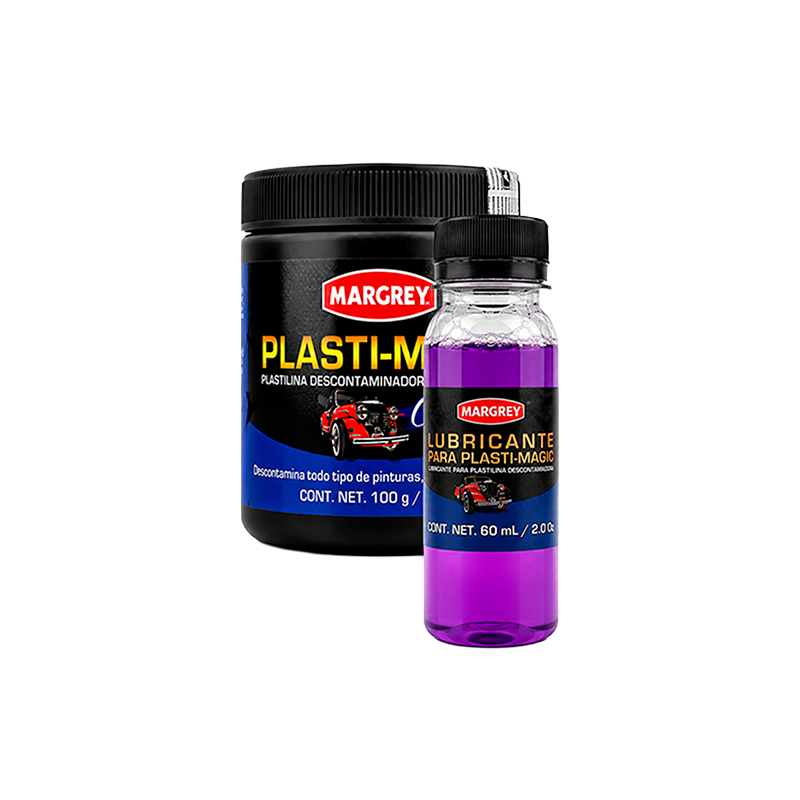
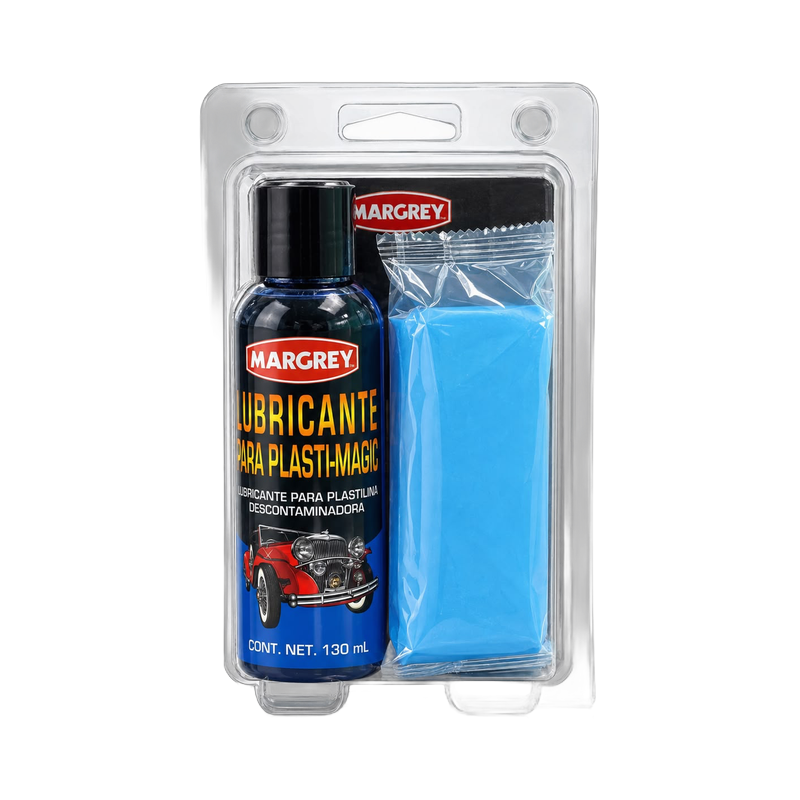
Foto nueva del Plasti-Magic 100 g (#31)
* Foto nueva del Plasti-Magic 100 g (blíster con lubricante 130 ml), PNG del kit

Claude-Session: https://claude.ai/code/session_01MW4YBNVCdbsHfkz1U2M1qe

* Cotizador usa la foto nueva del Plasti-Magic 100 g

Claude-Session: https://claude.ai/code/session_01MW4YBNVCdbsHfkz1U2M1qe

---------

diff --git a/src/PedidoTabla.jsx b/src/PedidoTabla.jsx
@@ -73,7 +73,7 @@ const productCatalog = [
   { product: "PULIMENTO RESTAURADOR DE FAROS", code: "7501716105582", sku: "0422-01-253", description: "PAQUETE 6 PIEZAS 130 ML", unitDescription: "PIEZA INDIVIDUAL 130 ML", price: 372.00, unitPrice: 31.00, link: "https://www.comercializadoradtup.com/products/restaurador-de-faros-margrey-130-ml?_pos=2&_psq=faros&_ss=e&_v=1.0", image:"https://res.cloudinary.com/diefezach/image/upload/v1726873372/restaurador_faros_130_jfydce.jpg"},
   { product: "PULIMENTO RESTAURADOR DE FAROS", code: "7501716104813", sku: "0422-01-235", description: "PAQUETE 12 PIEZAS 250 ML", unitDescription: "PIEZA INDIVIDUAL 250 ML", price: 630.00, unitPrice: 52.50, image:"https://res.cloudinary.com/diefezach/image/upload/v1726873373/restaurador_faros_250_bghu6v.jpg", link:"https://www.comercializadoradtup.com/products/restaurador-de-faros-margrey-250-ml?_pos=1&_psq=faros&_ss=e&_v=1.0"},
   { product: "PLASTI-MAGIC", category: "PLASTI-MAGIC", name: "plasti-magic" },
-  { product: "PLASTI-MAGIC", code: "7501716108378", sku: "0423-01-247", description: "CAJA 12 PIEZAS 100 GR", unitDescription: "PIEZA INDIVIDUAL 100 GR", price: 696.00, unitPrice: 58.00, link:"https://www.comercializadoradtup.com/products/plasti-magic-margrey-100g-lubricante-60ml?_pos=1&_psq=plasti&_ss=e&_v=1.0", image:"https://res.cloudinary.com/diefezach/image/upload/v1726873369/plasti_magic_100_tcrgcx.jpg"},
+  { product: "PLASTI-MAGIC", code: "7501716108378", sku: "0423-01-247", description: "CAJA 12 PIEZAS 100 GR", unitDescription: "PIEZA INDIVIDUAL 100 GR", price: 696.00, unitPrice: 58.00, link:"https://www.comercializadoradtup.com/products/plasti-magic-margrey-100g-lubricante-60ml?_pos=1&_psq=plasti&_ss=e&_v=1.0", image:"https://res.cloudinary.com/dl2s0vpwb/image/upload/f_auto,q_auto,w_400/v1792387478/margrey/plasti-magic-100g-0423-01-247.png"},
   { product: "PLASTI-MAGIC", code: "7502275980207", sku: "0423-01-238", description: "CAJA 12 PIEZAS 200 GR", unitDescription: "PIEZA INDIVIDUAL 200 GR", price: 1248.00, unitPrice: 104.00, image:"https://res.cloudinary.com/diefezach/image/upload/v1726873369/plasti_magic_200_wz2leq.jpg", tag: "promotion", link:"https://www.comercializadoradtup.com/products/plasti-magic-margrey-200g-lubricante-60ml?_pos=7&_psq=plas&_ss=e&_v=1.0" },
   { product: "3 EN 1 TOP POLISH", category: "3 EN 1 TOP POLISH", name: "3 en 1 top polish" },
   { product: "3 EN 1 TOP POLISH", code: "7501716105957", sku: "0429-01-211", description: "PAQUETE 12 PIEZAS 500 ML", unitDescription: "PIEZA INDIVIDUAL 500 ML", price: 1038.00, unitPrice: 86.50, link: "https://www.comercializadoradtup.com/products/pulimento-3-en-1-top-polish-margrey-500-ml?_pos=1&_psq=3+en+1&_ss=e&_v=1.0", image:"https://res.cloudinary.com/diefezach/image/upload/v1726873370/pulimento_3_en_1_nteocl.jpg"},
